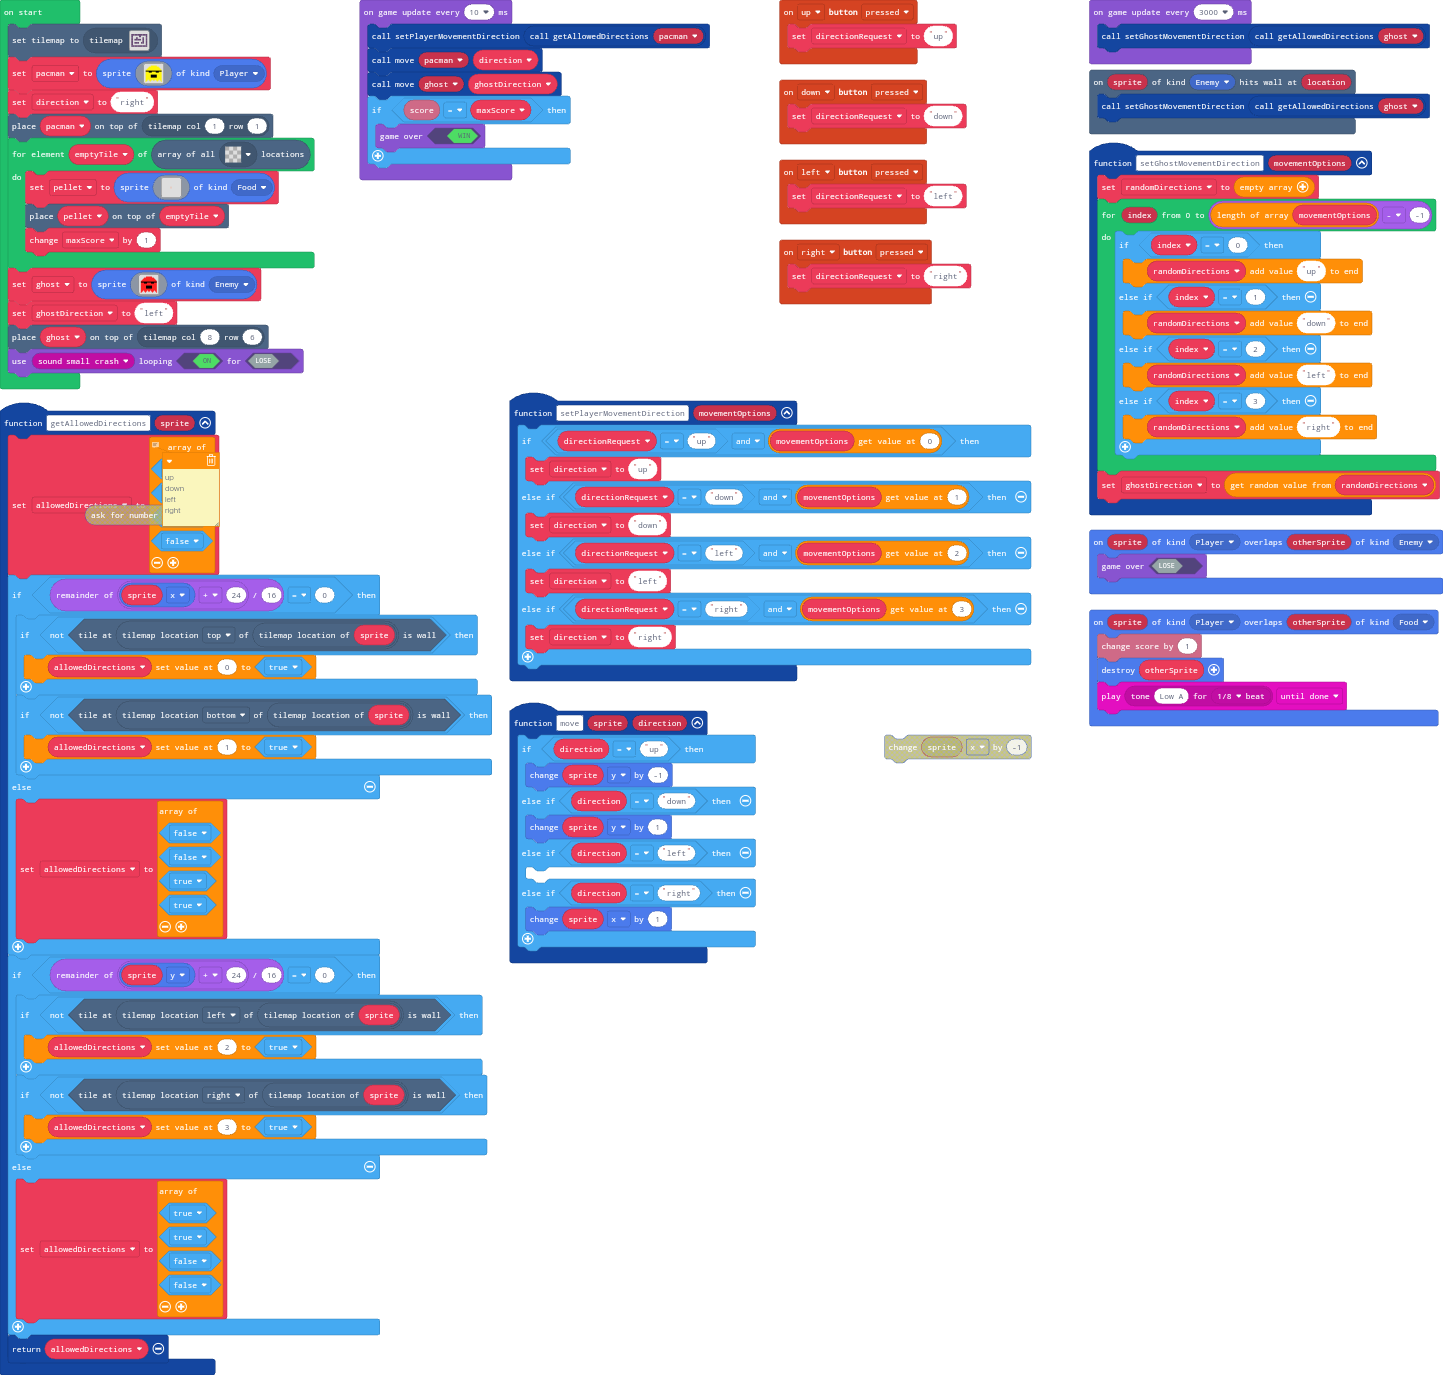
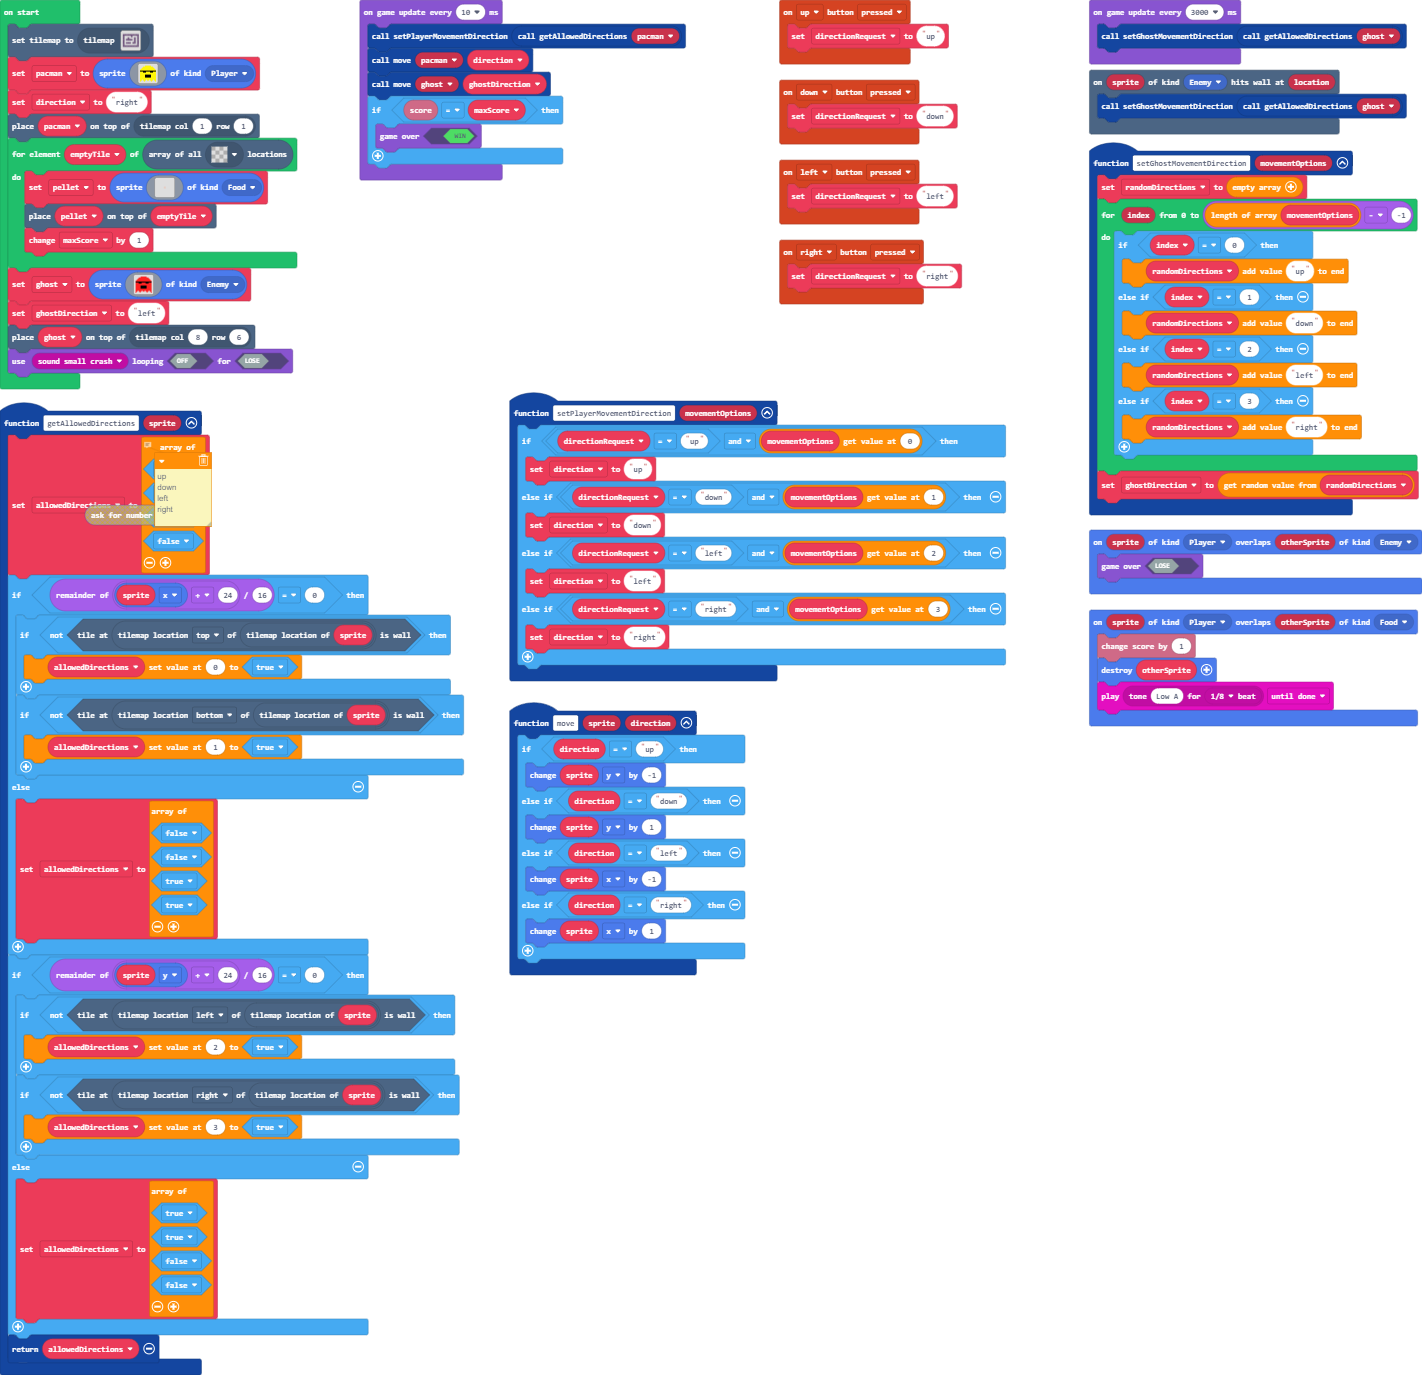
Fixed minor movement bug and prevented sound from looping!

diff --git a/main.ts b/main.ts
@@ -78,7 +78,7 @@ function move (sprite: Sprite, direction: string) {
     } else if (direction == "down") {
         sprite.y += 1
     } else if (direction == "left") {
-    	
+        sprite.x += -1
     } else if (direction == "right") {
         sprite.x += 1
     }
@@ -172,7 +172,7 @@ ghost = sprites.create(img`
     `, SpriteKind.Enemy)
 ghostDirection = "left"
 tiles.placeOnTile(ghost, tiles.getTileLocation(8, 6))
-game.setGameOverPlayable(false, music.melodyPlayable(music.smallCrash), true)
+game.setGameOverPlayable(false, music.melodyPlayable(music.smallCrash), false)
 game.onUpdateInterval(10, function () {
     setPlayerMovementDirection(getAllowedDirections(pacman))
     move(pacman, direction)
